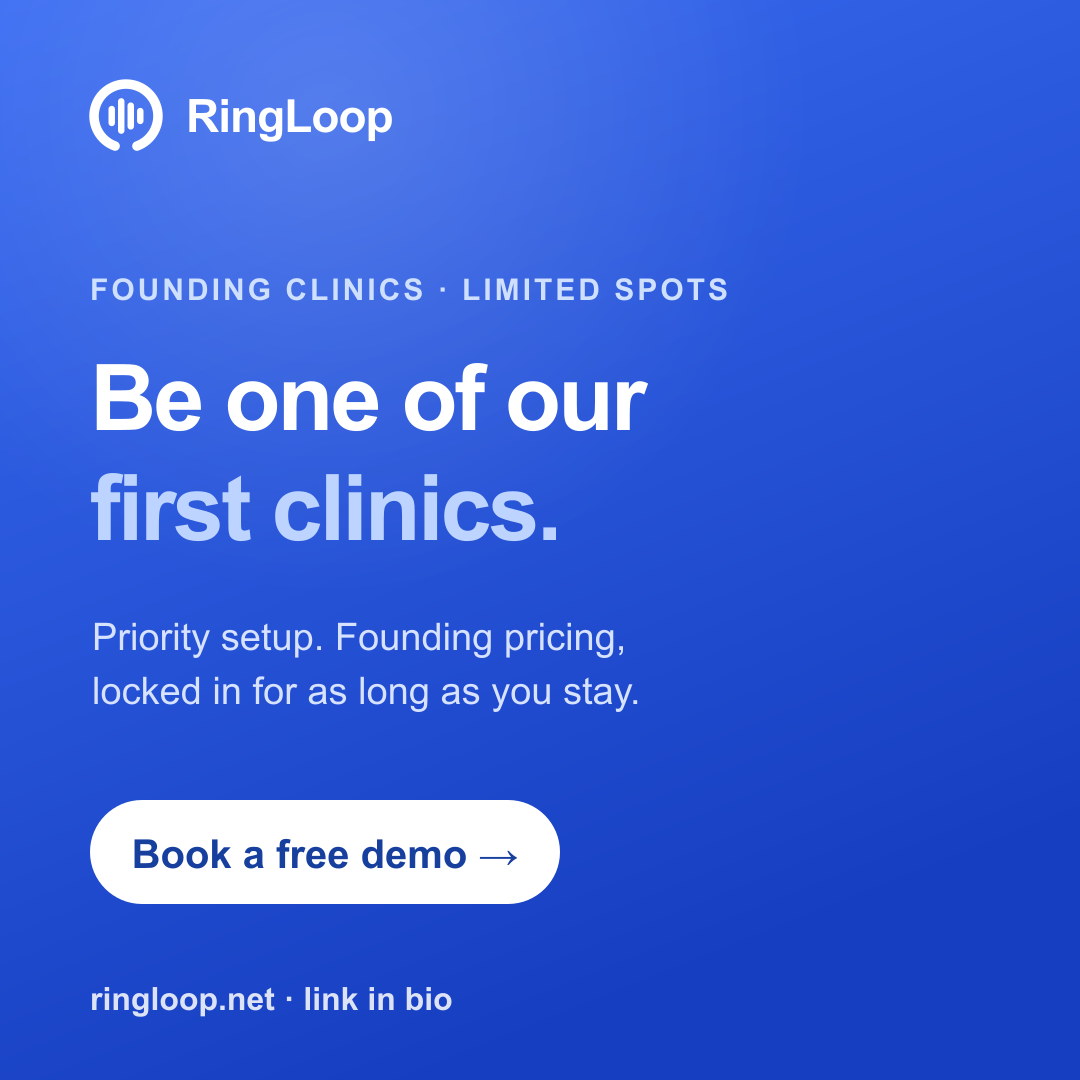
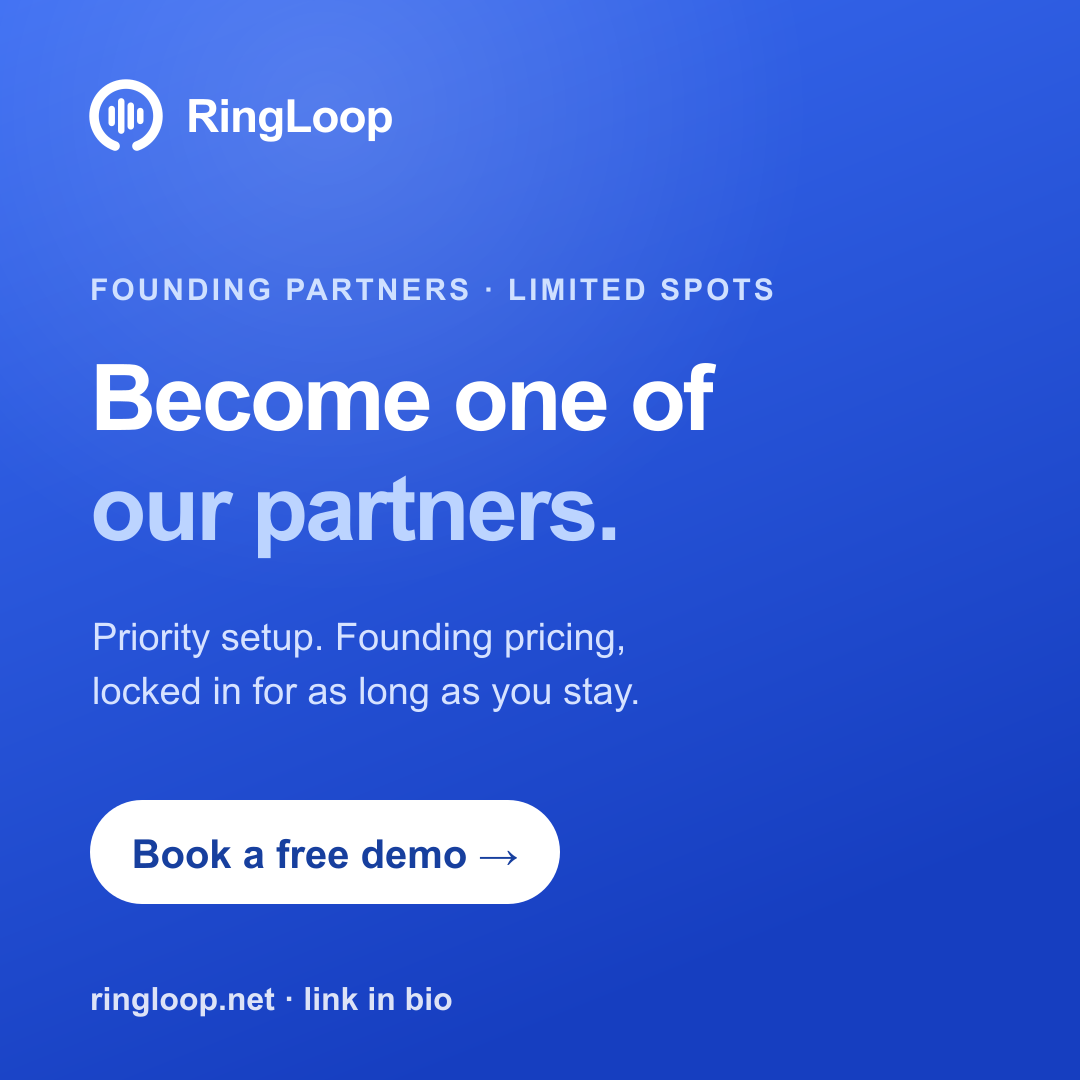
Reframe founding section as "partners" not "first clinics"
Homepage band + Instagram slide 3 now use partner language.

Changed region(s): [[0.0611, 0.4278, 0.5806, 0.5194], [0.1833, 0.3361, 0.6722, 0.3972], [0.275, 0.2444, 0.7333, 0.275]]

diff --git a/src/app/page.tsx b/src/app/page.tsx
@@ -669,19 +669,19 @@ export default function Home() {
           <div className="relative">
             <span className="mb-5 inline-flex items-center gap-2 rounded-full border border-blue/20 bg-sky px-4 py-1.5 text-xs font-semibold text-blue">
               <Icon name="star" className="h-3.5 w-3.5" />
-              Founding clinics — limited spots
+              Founding partners — limited spots
             </span>
             <h2 className="font-display mx-auto mb-4 max-w-2xl text-3xl leading-tight md:text-4xl">
-              Be one of our <em className="text-blue">first clinics</em> in Europe &amp; the US.
+              Become one of our <em className="text-blue">founding partners</em> in Europe &amp; the US.
             </h2>
             <p className="mx-auto mb-9 max-w-xl leading-relaxed text-ink-soft">
-              We&apos;re onboarding a small group of founding clinics now. Get
+              We&apos;re partnering with a small group of clinics now. Get
               priority setup, a direct line to our team, and founding pricing
               locked in for as long as you stay.
             </p>
             <div className="flex flex-col items-center justify-center gap-4 sm:flex-row">
               <Link href="/contact" className="btn-primary group px-9 py-4">
-                Claim a founding spot
+                Become a partner
                 <span className="ml-2 inline-block transition-transform duration-300 group-hover:translate-x-1">→</span>
               </Link>
               <Link href="/demo" className="rounded-full border border-[var(--line)] bg-white px-9 py-4 font-semibold text-ink shadow-sm transition-all duration-300 hover:border-blue/30 hover:text-blue">